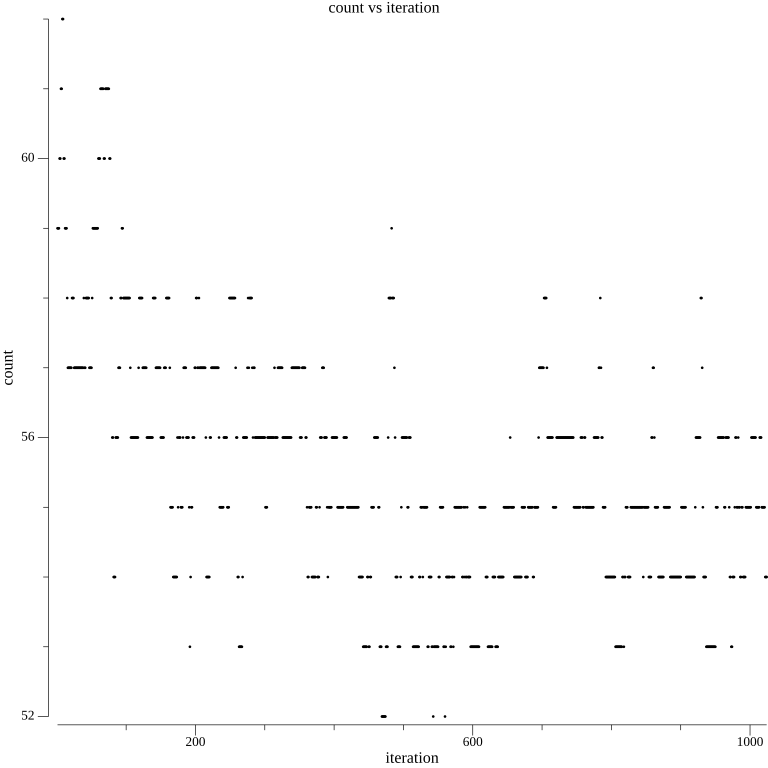
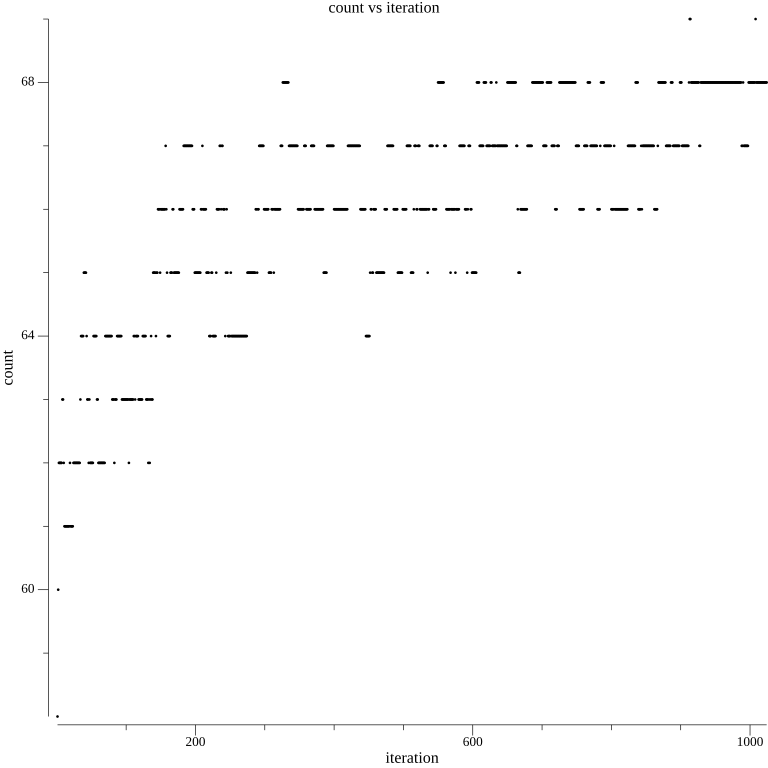
Fixed bug

diff --git a/main.go b/main.go
@@ -159,76 +159,40 @@ func (n *Neuron) Iterate(iterations int) {
 		"drop": &drop,
 	}
 
-	if *FlagNull {
-		// no structures
-	} else if !*FlagAlternate {
-		x := n.Set.ByName["x"]
-		x.X[0] = -1
-		x.X[1] = 0 - 2
-		x.X[2] = -1
-		x.X[3] = 1 - 2
-		x.X[4] = -1
-		x.X[5] = 2 - 2
-		x.X[6] = -1
-		x.X[7] = 3 - 2
+	for _, x := range n.Set.Weights {
+		if *FlagNull {
+			// no structures
+		} else if !*FlagAlternate {
+			x.X[0] = -1
+			x.X[1] = 0 - 2
+			x.X[2] = -1
+			x.X[3] = 1 - 2
+			x.X[4] = -1
+			x.X[5] = 2 - 2
+			x.X[6] = -1
+			x.X[7] = 3 - 2
 
-		if !*FlagControl {
-			x.X[8] = 0
+			if !*FlagControl {
+				x.X[8] = 0
+				x.X[9] = 1 - 2
+				x.X[10] = 0
+				x.X[11] = 2 - 2
+			}
+		} else {
+			x.X[0] = 0
+			x.X[1] = 0 - 2
+			x.X[2] = 0
+			x.X[3] = 1 - 2
+			x.X[4] = 0
+			x.X[5] = 2 - 2
+			x.X[6] = 0
+			x.X[7] = 3 - 2
+
+			x.X[8] = -1
 			x.X[9] = 1 - 2
-			x.X[10] = 0
+			x.X[10] = -1
 			x.X[11] = 2 - 2
 		}
-	} else {
-		x := n.Set.ByName["x"]
-		x.X[0] = 0
-		x.X[1] = 0 - 2
-		x.X[2] = 9
-		x.X[3] = 1 - 2
-		x.X[4] = 0
-		x.X[5] = 2 - 2
-		x.X[6] = 0
-		x.X[7] = 3 - 2
-
-		x.X[8] = -1
-		x.X[9] = 1 - 2
-		x.X[10] = -1
-		x.X[11] = 2 - 2
-	}
-
-	if *FlagNull {
-		// no structures
-	} else if !*FlagAlternate {
-		x := n.Set.ByName["y"]
-		x.X[0] = -1
-		x.X[1] = 0 - 2
-		x.X[2] = -1
-		x.X[3] = 1 - 2
-		x.X[4] = -1
-		x.X[5] = 2 - 2
-		x.X[6] = -1
-		x.X[7] = 3 - 2
-
-		if !*FlagControl {
-			x.X[8] = 0
-			x.X[9] = 1 - 2
-			x.X[10] = 0
-			x.X[11] = 2 - 2
-		}
-	} else {
-		x := n.Set.ByName["y"]
-		x.X[0] = 0
-		x.X[1] = 0 - 2
-		x.X[2] = 0
-		x.X[3] = 1 - 2
-		x.X[4] = 0
-		x.X[5] = 2 - 2
-		x.X[6] = 0
-		x.X[7] = 3 - 2
-
-		x.X[8] = -1
-		x.X[9] = 1 - 2
-		x.X[10] = -1
-		x.X[11] = 2 - 2
 	}
 
 	euclidean := tf64.B(EuclideanReal)